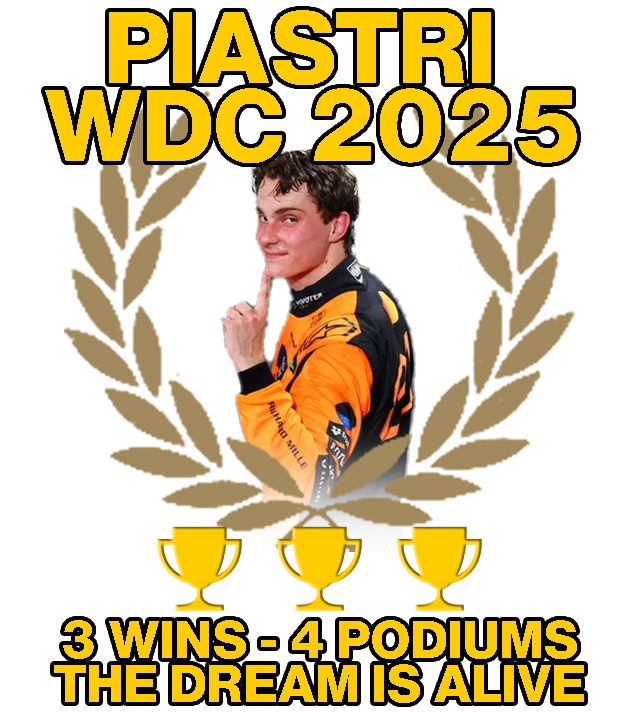
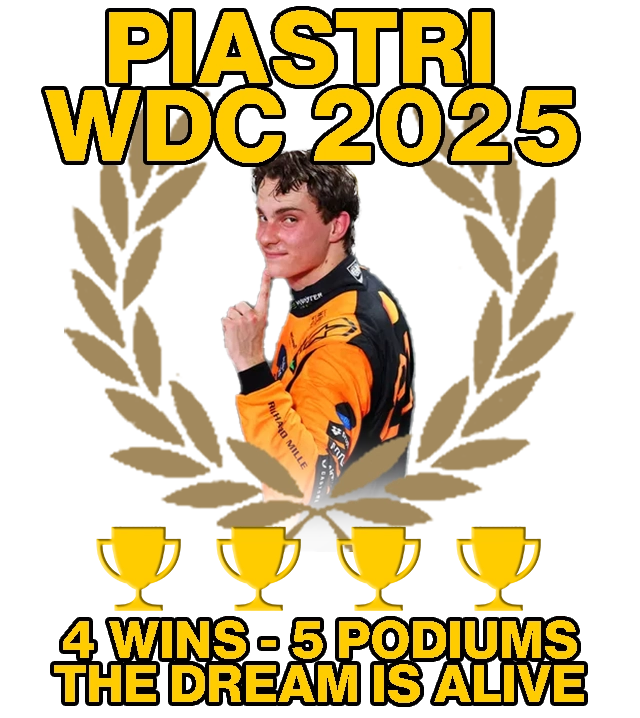
05/04/25 - Revision 1
-Updated news
-Updated Piastri graphic

Changed region(s): [[0.1562, 0.7354, 0.8438, 0.9192], [0.0938, 0.8579, 0.1562, 0.9192]]

diff --git a/pages/main/changelog.html b/pages/main/changelog.html
@@ -18,6 +18,9 @@
                 The Changelog 
             </h1>
 
+            <h2>05/04/25–1 Commit</h2>
+                <li>Updated news</li>
+                <li>Updated Piastri graphic</li>
             <h2>05/01/25–3 Commits</h2>
                 <li>Added Statter data for April 2025</li>
                 <li>Updated Most Listened Albums</li>
